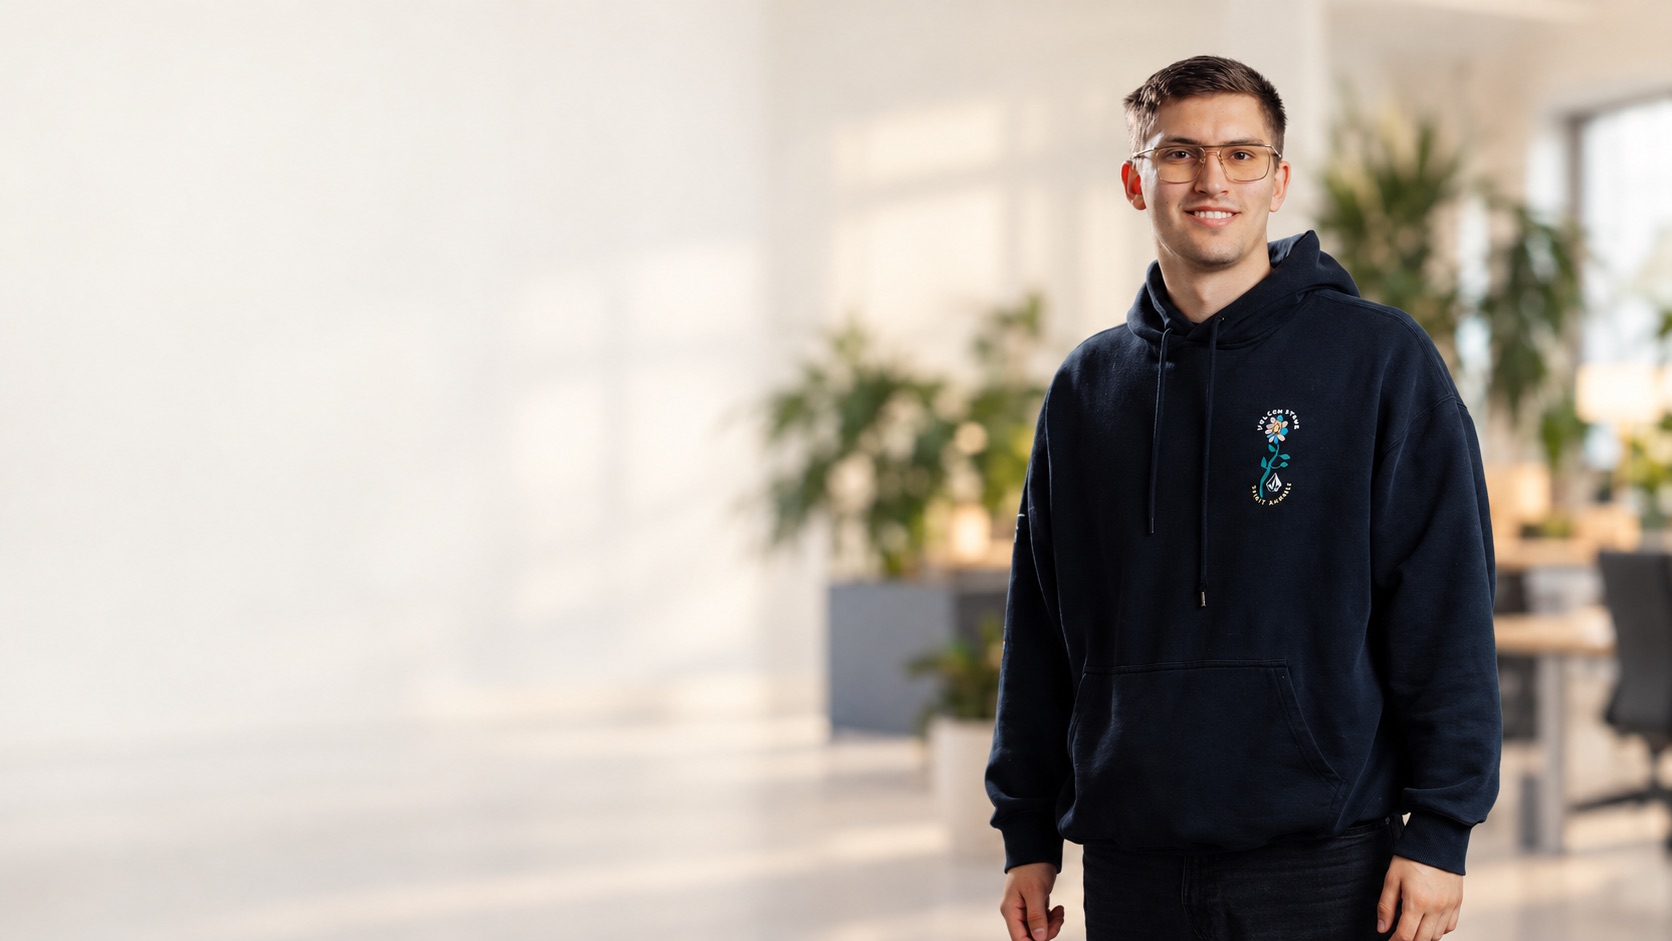
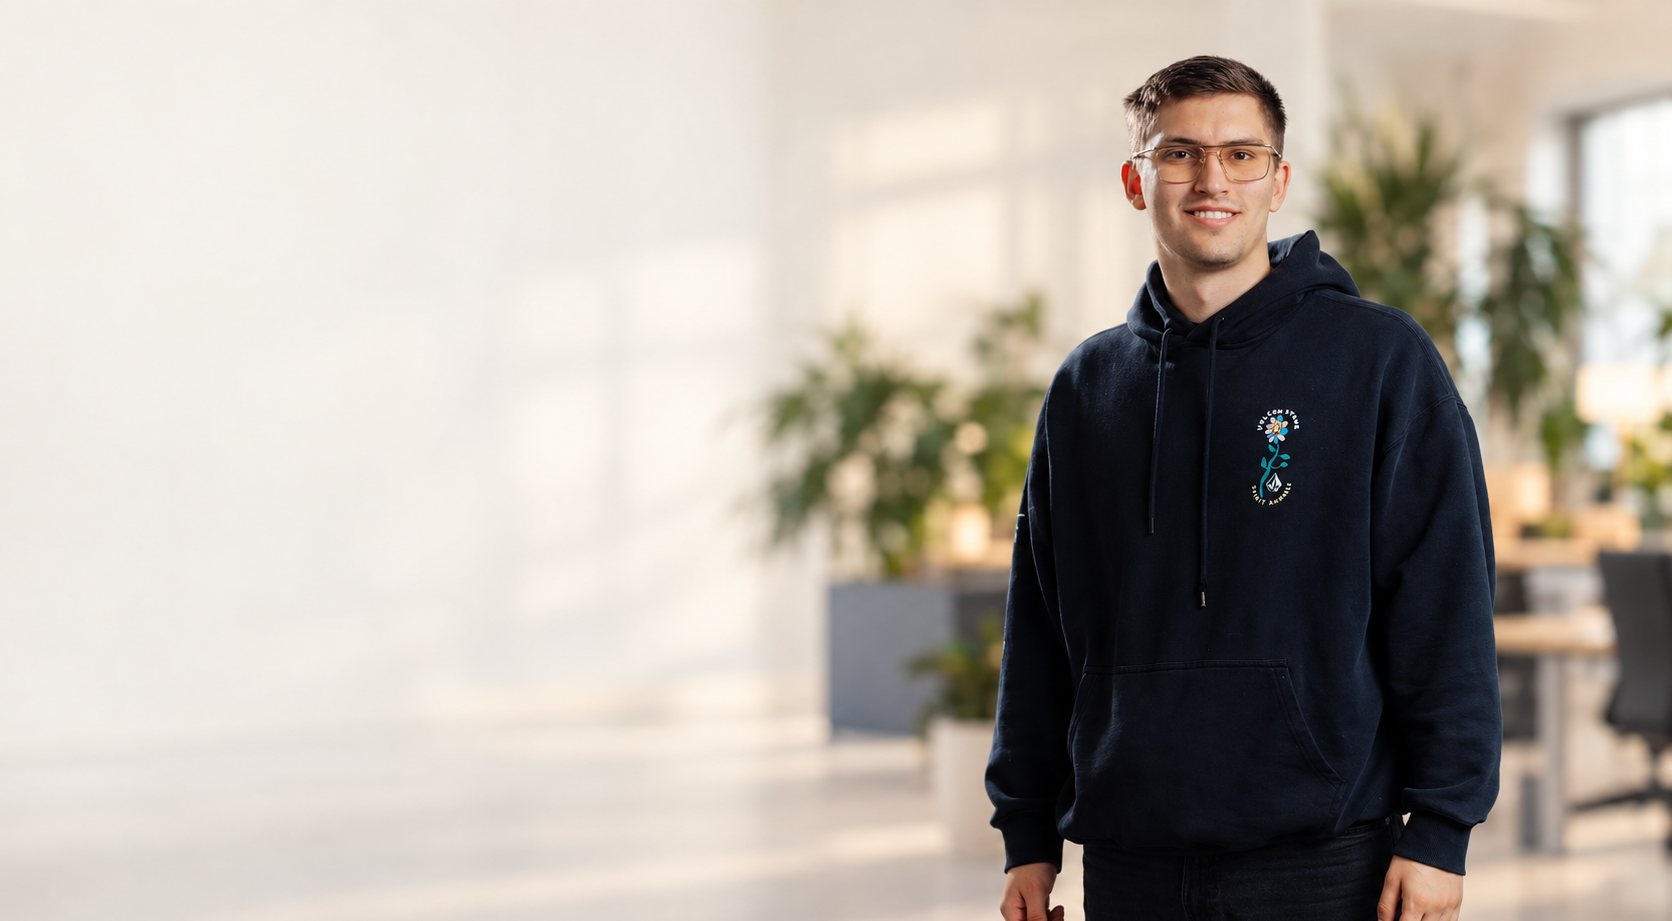
Expedio webinar: speaker pictures full width, 20px cropped off the bottom

diff --git a/src/sections/webinars-expedio/Speakers.tsx b/src/sections/webinars-expedio/Speakers.tsx
@@ -4,7 +4,7 @@ import { Reveal } from "@/components/primitives/Reveal";
 import { SPEAKERS } from "./details";
 import { assetUrl } from "@/lib/assets";
 
-/* Each speaker stands on one side of a wide office picture; the copy sits in the empty side. */
+/* Each speaker stands on one side of a full-width office picture; the copy sits in the empty side. */
 const STAGE: Record<string, { photo: string; text: "left" | "right" }> = {
   "Glebs Vrevsky": { photo: "/webinars/expedio/glebs-vrevsky-stage.jpg", text: "right" },
   "Alfreds Genkins": { photo: "/webinars/expedio/alfreds-genkins-stage.jpg", text: "left" },
@@ -12,36 +12,33 @@ const STAGE: Record<string, { photo: string; text: "left" | "right" }> = {
 
 export function Speakers() {
   return (
-    <section id="the-speakers" className="relative bg-lp-bright py-24 md:py-32 overflow-hidden scroll-mt-20">
+    <section id="the-speakers" className="relative bg-lp-bright pt-24 md:pt-32 overflow-hidden scroll-mt-20">
       <div className="wrap relative">
         <Reveal delay={0.05}>
           <h2 className="font-head text-[var(--sw-black)] text-[26px] sm:text-[32px] md:text-[40px] lg:text-[46px] leading-[1.05] tracking-[-0.01em]">
             Who&apos;s running <span style={{ color: "var(--sw-blue)" }}>the session</span>
           </h2>
         </Reveal>
-
-        <ul className="mt-10 md:mt-14 flex flex-col gap-4 md:gap-6">
-          {SPEAKERS.map((s, i) => {
-            const stage = STAGE[s.name];
-            const right = stage.text === "right";
-            return (
-              <Reveal key={s.name} delay={0.1 + i * 0.07}>
-                <li className="relative overflow-hidden rounded-[6px] border border-[var(--sw-black)]/10 bg-[#f4f1ec]">
-                  {/* eslint-disable-next-line @next/next/no-img-element */}
-                  <img
-                    src={assetUrl(stage.photo)}
-                    width={1672}
-                    height={941}
-                    alt={s.name}
-                    loading="lazy"
-                    className={`block w-full aspect-[4/3] sm:aspect-[1672/941] object-cover ${right ? "object-left" : "object-right"}`}
-                  />
-                  <div
-                    className={`p-6 sm:absolute sm:inset-y-0 sm:flex sm:w-1/2 sm:items-center sm:p-10 lg:p-16 ${
-                      right ? "sm:right-0" : "sm:left-0"
-                    }`}
-                  >
-                    <div className="max-w-[440px]">
+      </div>
+      <ul className="mt-10 md:mt-14 flex flex-col">
+        {SPEAKERS.map((s, i) => {
+          const stage = STAGE[s.name];
+          const right = stage.text === "right";
+          return (
+            <Reveal key={s.name} delay={0.1 + i * 0.07}>
+              <li className="relative bg-[#f4f1ec]">
+                {/* eslint-disable-next-line @next/next/no-img-element */}
+                <img
+                  src={assetUrl(stage.photo)}
+                  width={1672}
+                  height={921}
+                  alt={s.name}
+                  loading="lazy"
+                  className={`block w-full aspect-[4/3] sm:aspect-[1672/921] object-cover ${right ? "object-left" : "object-right"}`}
+                />
+                <div className="sm:absolute sm:inset-0">
+                  <div className={`wrap flex h-full items-center py-6 sm:py-0 ${right ? "sm:justify-end" : ""}`}>
+                    <div className="sm:w-1/2 sm:max-w-[480px]">
                       <div className="font-head font-bold text-[var(--sw-black)] text-[26px] md:text-[34px] lg:text-[40px] leading-[1.05] tracking-[-0.01em]">
                         {s.name}
                       </div>
@@ -53,12 +50,12 @@ export function Speakers() {
                       )}
                     </div>
                   </div>
-                </li>
-              </Reveal>
-            );
-          })}
-        </ul>
-      </div>
+                </div>
+              </li>
+            </Reveal>
+          );
+        })}
+      </ul>
     </section>
   );
 }
